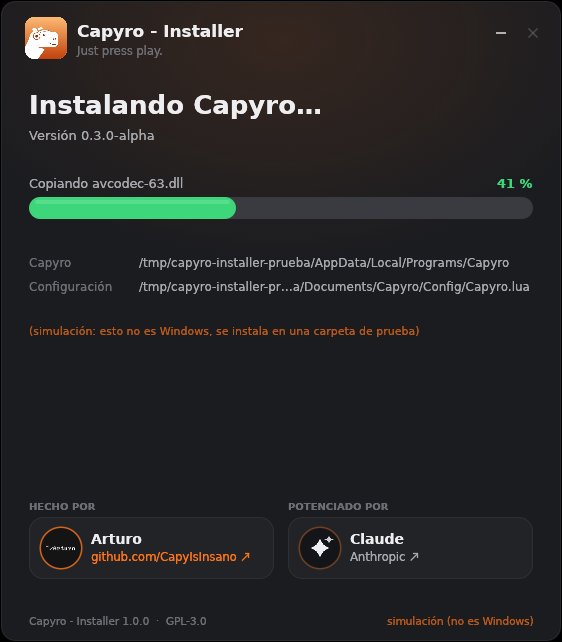
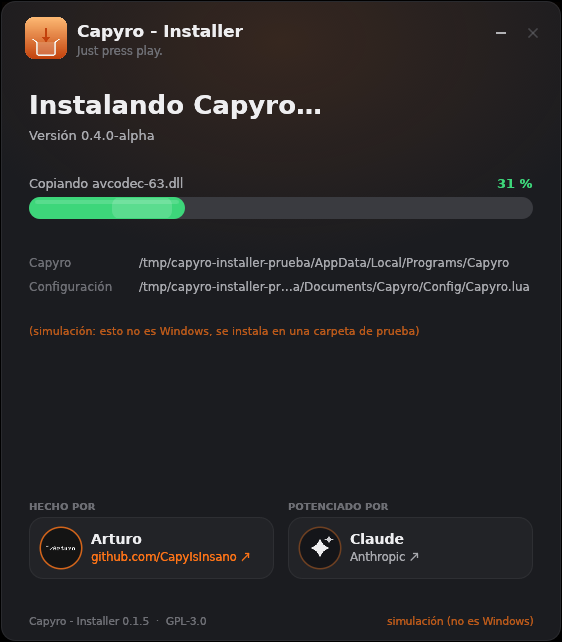
v0.1.5 Alpha

diff --git a/src/ui.rs b/src/ui.rs
@@ -16,6 +16,8 @@ use crate::sound;
 use crate::theme::*;
 
 const AVATAR_PNG: &[u8] = include_bytes!("../assets/arturo.png");
+/// La cajita con la flecha: va arriba a la izquierda mientras se instala.
+const INSTALLING_PNG: &[u8] = include_bytes!("../assets/installer_logo_256.png");
 const AUTHOR: &str = "Arturo";
 const GITHUB_USER: &str = "CapyIsInsano";
 const GITHUB_URL: &str = "https://github.com/CapyIsInsano";
@@ -48,6 +50,7 @@ pub struct InstallerApp {
     screen: Screen,
     plan: Plan,
     logo: Option<TextureHandle>,
+    installing_logo: Option<TextureHandle>,
     avatar: Option<TextureHandle>,
     rx: Option<Receiver<Msg>>,
     picking: Option<(Pick, Receiver<Option<PathBuf>>)>,
@@ -247,6 +250,7 @@ impl InstallerApp {
                 start_menu: true,
             },
             logo: texture(&cc.egui_ctx, "logo", crate::LOGO_PNG),
+            installing_logo: texture(&cc.egui_ctx, "installing-logo", INSTALLING_PNG),
             avatar: texture(&cc.egui_ctx, "avatar", AVATAR_PNG),
             rx: None,
             picking: None,
@@ -415,8 +419,20 @@ impl InstallerApp {
         if drag.drag_started() {
             ui.ctx().send_viewport_cmd(ViewportCommand::StartDrag);
         }
-        if let Some(logo) = &self.logo {
-            p.image(logo.id(), Rect::from_min_size(pos2(full.left() + 24.0, full.top() + 16.0), Vec2::splat(42.0)), uv(), Color32::WHITE);
+        // mientras instala, el logo de Capyro se funde en la cajita del
+        // instalador (y vuelve al terminar)
+        let mix = ease_out(ui.ctx().animate_bool_with_time(
+            Id::unique("inst-logo-mix"),
+            matches!(self.screen, Screen::Installing { .. }),
+            0.35,
+        ));
+        let spot = Rect::from_min_size(pos2(full.left() + 24.0, full.top() + 16.0), Vec2::splat(42.0));
+        for (tex, alpha) in [(&self.logo, 1.0 - mix), (&self.installing_logo, mix)] {
+            if let Some(tex) = tex.as_ref().filter(|_| alpha > 0.001) {
+                // el que entra crece un poquito, el que sale se achica
+                let r = Rect::from_center_size(spot.center(), spot.size() * (0.9 + 0.1 * alpha));
+                p.image(tex.id(), r, uv(), Color32::WHITE.gamma_multiply(alpha));
+            }
         }
         let title = if matches!(self.screen, Screen::UninstallConfirm { .. } | Screen::Uninstalled { .. }) {
             "Capyro - Uninstaller"

diff --git a/README.md b/README.md
@@ -136,7 +136,7 @@ CAPYRO_PAYLOAD=$PWD/payload/capyro-macos-x64.zip   cargo build --release --targe
 mkdir -p CapyroInstaller.app/Contents/{MacOS,Resources}
 lipo -create -output CapyroInstaller.app/Contents/MacOS/CapyroInstaller \
     target/{aarch64,x86_64}-apple-darwin/release/CapyroInstaller
-sed "s/VERSION/0.1.4/g" assets/macos/Info.plist > CapyroInstaller.app/Contents/Info.plist
+sed "s/VERSION/0.1.5/g" assets/macos/Info.plist > CapyroInstaller.app/Contents/Info.plist
 cp assets/macos/capyro.icns CapyroInstaller.app/Contents/Resources/
 codesign --force --sign - CapyroInstaller.app
 ```
